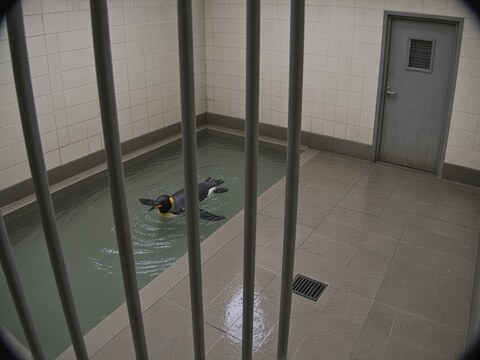
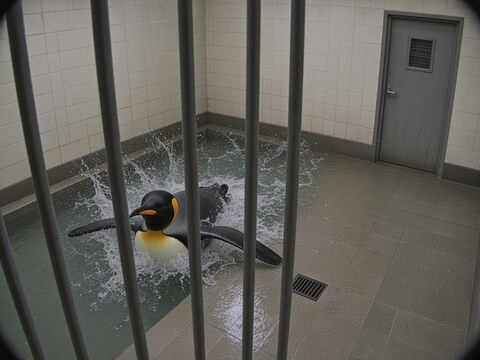
fix: the penguin reads as a penguin after the camera's crush
The swimming and standing penguins were small enough to turn into a blob at
320x240. Both are regenerated from the same pen: the swim now fills the near
end of the pool with a splash, and on its turn the penguin stands upright just
behind the bars facing the lens, about half the frame tall.

diff --git a/src/cam/page.html b/src/cam/page.html
@@ -424,8 +424,8 @@ svg.i { flex-shrink: 0; }
     empty4: { src: "tiger/cam4-empty.jpg", cam: 4 },
     back: { src: "tiger/in.jpg", moves: [{ kind: "drift", box: [0.84, 0.19, 0.99, 0.45], ax: -1.5, ay: 1.5 }] },
     // The second cage, "cam 02": a penguin in the same enclosure, shown during a chained-escape run's penguin turns.
-    penguin: { src: "tiger/penguin.jpg", cam: 2, moves: [{ kind: "breathe", box: [0.40, 0.37, 0.54, 0.63], amt: 0.01, hz: 0.3 }] },
-    swim: { src: "tiger/penguin-swim.jpg", cam: 2, moves: [{ kind: "wiggle", box: [0.25, 0.46, 0.56, 0.72], ax: 1.1, ay: 0.6, hz: 1.1 }] },
+    penguin: { src: "tiger/penguin.jpg", cam: 2, moves: [{ kind: "breathe", box: [0.33, 0.40, 0.59, 0.86], amt: 0.01, hz: 0.3 }] },
+    swim: { src: "tiger/penguin-swim.jpg", cam: 2, moves: [{ kind: "wiggle", box: [0.13, 0.50, 0.59, 0.75], ax: 1.4, ay: 0.7, hz: 1.2 }] },
     // Cam 05, the monkey (the network escape): it swings out. Cam 06, the raccoon (the password escape): it finds the key.
     monkey: { src: "tiger/monkey.jpg", cam: 5, moves: [{ kind: "wiggle", box: [0.28, 0.74, 0.46, 0.98], ax: 0.8, ay: 0.8, hz: 1.3 }] },
     monkeyEmpty: { src: "tiger/monkey-empty.jpg", cam: 5 },
